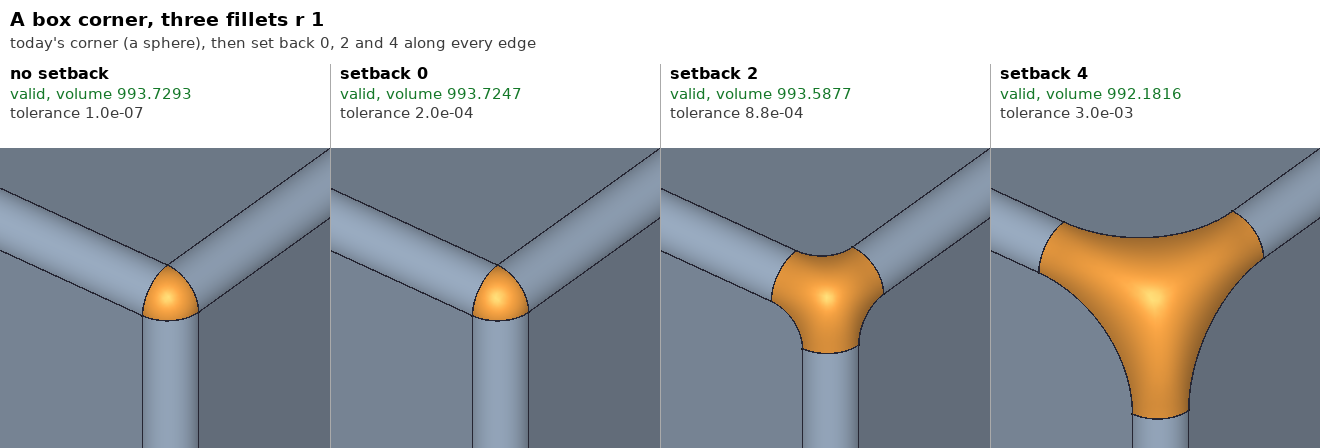
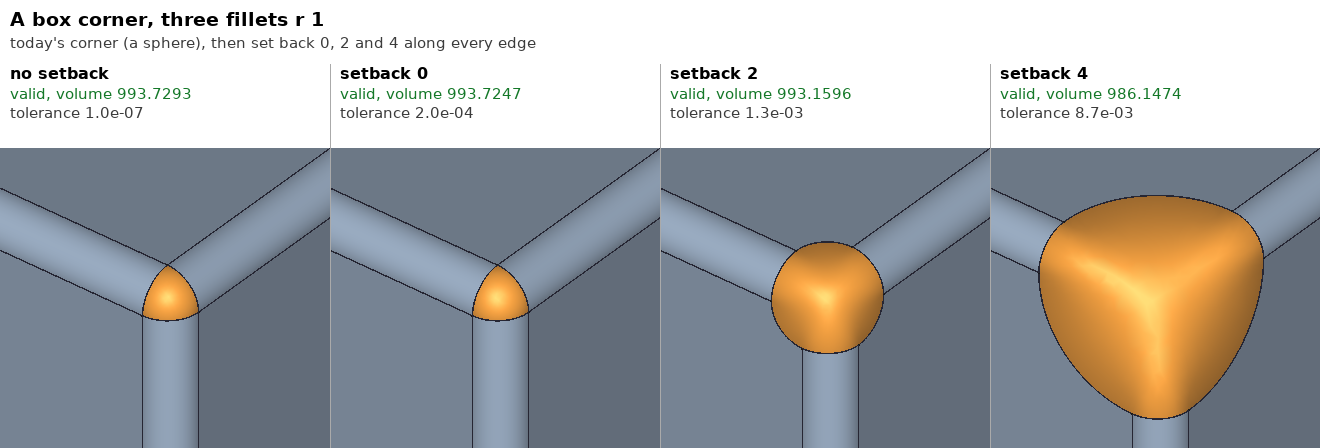
Docs: corner blending -- face curves that leave each fillet across it
Section 9.8 records what was planned there and is now done in TKFillet
(occt d9f82fc1ee): a setback corner's face curves continue the fillets'
cut sections into the faces and bow away from the corner, the round bulb
of the request's pictures; where a section points away, the contact line's
tangent; a sharp edge keeps its end. The variants tried and why they lost,
the box measured old against new, the suite and the sweeps. The depth per
face moves to 9.9, still planned.

The pictures are drawn again with the new curves; 9.7 keeps the three it
showed, as *_battens.png.

Claude-Session: https://claude.ai/code/session_01SZd36tCuMpo18RwNKowWHa

diff --git a/docs/CornerBlending.md b/docs/CornerBlending.md
@@ -712,39 +712,116 @@ The table of 9.4, measured again: setback 0 993.7247, 2 993.5877, 4
 `d0` 993.8441. The pictures' edges are handed over in another order, and
 the plate depends on it: their volumes differ in the fourth decimal.
 
+![A box corner set back](pictures/CornerBlending/box_setbacks_battens.png)
+
+![Setbacks by edge](pictures/CornerBlending/box_by_edge_battens.png)
+
+![Two fillets and a sharp edge](pictures/CornerBlending/box_sharp_edge_battens.png)
+
+The pictures are `occt/tests/fork/fillet/pictures/make_corners.sh
+<fcad>/docs/pictures/CornerBlending` (`corners.py` says what they show;
+it opens the FreeCAD GUI on the display). The patch is orange, found by its
+name: generated from the corner's vertex. These three are kept as they were
+then, as `*_battens.png`; the script now draws the face curves of 9.8.
+
+### 9.8 The face curves, as the issue's pictures have them (2026-10-07)
+
+The issue's two CATIA screenshots, before and after: the green boundaries
+on the faces move out into the faces and the patch grows into a large round
+bulb. Their shape is what differed from ours. CATIA's leave each fillet
+across it, continuing the cut section, and bow away from the corner. Ours
+were battens held tangent at both ends to the fillets' contact lines, so
+they bowed toward the corner: the three-lobed, pinched patch of
+`box_setbacks_battens.png` at 4. That end condition was also behind the hook
+9.7 patched with the 85 deg free end: a curve made to leave along a contact
+line at 90 deg to its target.
+
+**What a setback corner's face curve does now** (`ChFi3d_Builder_CnCrn`,
+setback corners only; an ordinary corner never reaches it):
+
+- **It leaves each fillet across it.** The direction at a fillet's end is
+  the one its cut section runs on in, past the contact line, into the face.
+  The section is the straight line, in the stripe surface's parameters,
+  between its two contact points; its tangent at the end, taken into the
+  face's parameters, replaces the contact curve's tangent as the batten's
+  end angle. The boundary runs on from section into face curve without a
+  corner, and the curve bows away from the corner. The batten is the same
+  (`FairCurve_Batten`, sliding free); given these directions it is no longer
+  made a straight line for the size of its angles, only where it fails or
+  leaves the face, as before.
+- **Where the section points away.** A section more than 85 deg from the
+  chord gives its end the contact line's tangent instead, if that one is
+  within 85 deg, and leaves it free if neither is. That is a fillet cut
+  level with the next one's contact line (the third fillet at `d0` below:
+  its neighbour's section runs at 90 deg to the chord, its contact line
+  along it), or #523's fillets past the cylinder, whose section leaves the
+  top face at 139 deg to a chord that turns back toward the cylinder. Freed
+  there, as the 85 deg rule alone did, #523's r 2.5 curve met its fillet at
+  a kink, and the plate's approximation strayed 0.29 from the plate inside:
+  tolerance 5.2e-2, against 1.6e-3. With the contact tangent there, #523's
+  four suite cases are as they were.
+- **A sharp edge keeps its end.** A curve still arrives along the sharp
+  edge it ends at: the teardrop of `box_sharp_edge.png`. Arriving square to
+  the edge, which is what a fillet's section tends to as its radius goes to
+  0, put waves through the patch and creased it 87 deg at the tip, its plate
+  asked there for a tangent plane at right angles to both faces (the edge's
+  own direction leaves the bisector, 44 deg from each). A free end turned the
+  patch concave, volume 944 for 991. Keeping the old ends on the curves that
+  touch a sharp edge, or throughout a corner that has one, put both kinds of
+  curve on one patch, and it rose 0.4 out of the box.
+- **Kept: the 85 deg rule** (it now reads the section's angle first) **and
+  the plate built again at ten points.** #962's corner is the same with the
+  new curves, its plate's G1 error 1.56 rad either way: that conflict is at
+  its sharp edge. Without the rebuild its old curves lose r 0.8 there.
+
+Measured as 9.7, a box corner r 1, the old curves (as committed before) ->
+the new; "closest" is the patch's distance from the box's vertex, "H" its
+mean curvature:
+
+| Box corner, r 1 | Tolerance | Edge to patch | Crease | Closest | H | Volume |
+|---|---|---|---|---|---|---|
+| setback 0 | 2.0e-4, the same | 4.2e-5 | 0.05 | 0.745 | 0.84 to 1.08 | 993.7247 |
+| setback 2 | 8.8e-4 -> 2.0e-3 | 1.7e-4 -> 4.2e-4 | 0.28 -> 0.54 | 0.814 -> 0.998 | 0.05 to 0.82 | 993.5877 -> 993.1596 |
+| setback 4 | 3.8e-3 -> 6.3e-3 | 1.1e-3 -> 1.7e-3 | 0.72 -> 0.91 | 1.199 -> 1.908 | 0.05 to 0.82 | 992.1817 -> 986.1467 |
+| setback 6 | 8.8e-3 -> 1.7e-2 | 2.5e-3 -> 5.4e-3 | 1.24 -> 1.85 | 1.605 -> 2.982 | 0.05 to 0.81 | 988.6201 -> 963.3828 |
+| two fillets and a sharp edge, 4 | 3.7e-3 -> 1.4e-2 | 9.0e-4 -> 3.5e-3 | 44.4 -> 43.9 | 1.204 -> 1.629 | 0.02 to 1.03 | 993.9153 -> 990.8205 |
+| 3, 1.5 and 2 by edge | 1.0e-3 -> 2.4e-3 | 2.3e-4 -> 6.1e-4 | 0.29 -> 0.43 | 0.716 -> 0.844 | -0.03 to 1.17 | 993.7989 -> 993.3932 |
+| 3 and 1.5, the third at `d0` | 2.0e-3 -> 2.5e-3 | 2.7e-4 -> 6.1e-4 | 0.47 -> 0.52 | 0.672 -> 0.706 | -0.07 to 1.72 | 993.8441 -> 993.7281 |
+
+At setback 0 the fillets meet and the face curves have no length, so
+nothing changes. Set back, the patch is the round bulb of the screenshots,
+its closest point about half the setback from the vertex where the
+battens' stayed near the fillets' meeting, and it takes more material: 25
+more at 6 x r. It keeps one sign of curvature; the two small negatives are
+samples at its boundary on a plane face, where it is flat across, as is
+every minimum of 0.05. Its tolerance roughly doubles, a larger patch over
+the same plate, and stays under a fiftieth of the radius. The sharp edge's
+patch, between two fillets' curves and two teardrop flanks, has the loosest
+edge (1.4e-2) and rises 0.037 above the face beside the tip; its patch
+was flush before.
+
+The fallback goes through the same code. The suite: 139 pass, 2 known
+broken, as before; #523's four cases are unchanged (above) and #876's
+corner moves in the fourth decimal (8665.7876 to 8665.7912). The sweeps
+against the library as committed before this: no case changes status, and
+the 2680 and 9611 results made without the fallback are unchanged, value
+for value. Of those the fallback makes, 55 of 64 edges and 259 of 306
+corners change: the median tolerance 1.0e-4 to 1.1e-4, the edges' largest
+6.1e-3 to 1.0e-2 (the corners' stays #273's input 0.712), the volumes by
+0.26 at most. Each of the 314 is valid, valid again after being written and
+read, and meshes; its volume change agrees with its mesh's to 0.0013
+(median) and 0.26 at most (#876 `Fillet002` edge 5 at r 2).
+
 ![A box corner set back](pictures/CornerBlending/box_setbacks.png)
 
 ![Setbacks by edge](pictures/CornerBlending/box_by_edge.png)
 
 ![Two fillets and a sharp edge](pictures/CornerBlending/box_sharp_edge.png)
 
-The pictures are `occt/tests/fork/fillet/pictures/make_corners.sh
-<fcad>/docs/pictures/CornerBlending` (`corners.py` says what they show;
-it opens the FreeCAD GUI on the display). The patch is orange, found by its
-name: generated from the corner's vertex.
+### 9.9 Next: a depth per face (planned)
 
-### 9.8 Next: the face curves, as the issue's pictures have them (planned)
-
-The issue's two CATIA screenshots, before and after (2026-10-07, read
-again): the green boundaries on the faces move out into the faces and the
-patch grows into a large round bulb. Their shape is what differs from
-ours. CATIA's leave each fillet across it, continuing the cut section, and
-bow away from the corner. Ours are battens held tangent at both ends to
-the fillets' contact lines, so they bow toward the corner: the three-lobed,
-pinched patch of `box_setbacks.png` at 4.
-
-That end condition is also behind both defects 9.7 patched: the hook at a
-fillet at `d0` (a curve made to leave along a contact line at 90 deg to
-its target; the 85 deg free end) and #962's conflicting tangents (the
-rebuild at ten points). Planned, for setback corners only:
-
-1. A face curve's ends leave across the fillet: in the direction of the
-   cut section where it meets the face, the boundary running on from
-   section into face curve, the curve bowing outward. This should replace
-   the 85 deg rule and may make the rebuild at ten unneeded; both stay
-   until the sweeps say so. Checked as 9.7 was: pictures beside CATIA's,
-   the box and #962 measured, the suite, the sweeps.
-2. A depth per face: how far its curve bows into the face, at its middle,
-   stored per face on a corner beside the edges' setbacks (`Corners`
-   keeps its value open for it), with a drag handle at the curve's
-   midpoint in the task panel.
+How far a face's curve bows into the face, at its middle, stored per face
+on a corner beside the edges' setbacks (`Corners` keeps its value open for
+it), with a drag handle at the curve's midpoint in the task panel. With
+9.8 the curve's shape is fixed by its ends; a depth is what lets a user
+make the bulb fuller or flatter than the batten's.
